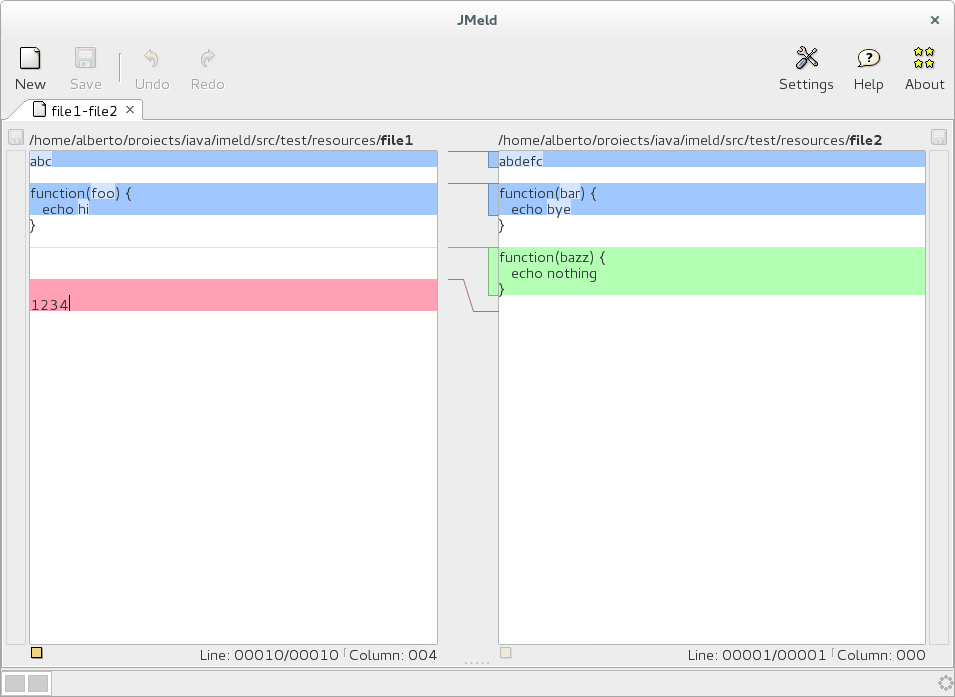
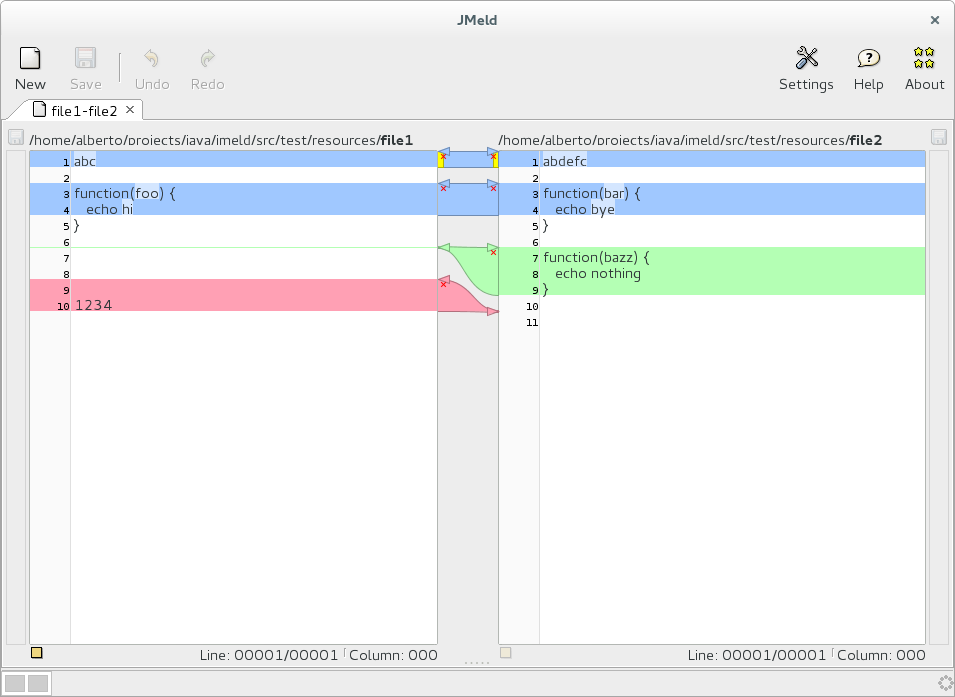
cleaning some flags used during debug
This flags should be passed to configuration

diff --git a/src/main/java/org/jmeld/ui/diffbar/DiffScrollComponent.java b/src/main/java/org/jmeld/ui/diffbar/DiffScrollComponent.java
@@ -497,7 +497,7 @@ public class DiffScrollComponent extends JComponent implements ChangeListener, C
                     g2.drawLine(x1 - 15, y1, x1, y1);
                 }
 
-                boolean showSelected = false;
+                boolean showSelected = true;
                 if (showSelected && selected) {
                     if (heightSelFrom > 0) {
                         selectionWidth = 5;
@@ -522,7 +522,7 @@ public class DiffScrollComponent extends JComponent implements ChangeListener, C
                     }
                 }
 
-                boolean drawCommandPointers = false;
+                boolean drawCommandPointers = true;
                 if(drawCommandPointers) {
                     // Draw merge right->left command.
                     if (!leftsideReadonly && !bdFrom.isReadonly()) {

diff --git a/src/main/java/org/jmeld/JMeld.java b/src/main/java/org/jmeld/JMeld.java
@@ -65,7 +65,11 @@ public class JMeld
     }
 
     public static void main(String[] args) {
-        if (JMeldSettings.getInstance().getEditor().isAntialiasEnabled()) {
+        JMeldSettings settings = JMeldSettings.getInstance();
+        settings.getEditor().setShowLineNumbers(true);
+        settings.setDrawCurves(true);
+        settings.setCurveType(1);
+        if (settings.getEditor().isAntialiasEnabled()) {
             System.setProperty("swing.aatext", "true");
         }
 
